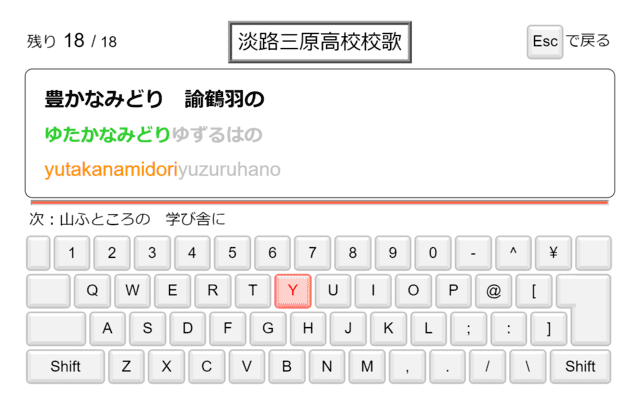
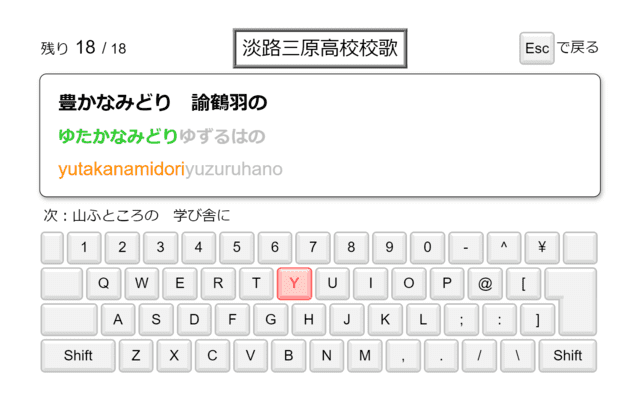
fix

Changed region(s): [[0.0297, 0.03, 0.9812, 0.96]]

diff --git a/css/typing.css b/css/typing.css
@@ -194,8 +194,8 @@
 		direction: rtl;
 		border-color: black;
 		color: white;
-		--shadow: 0 0 .15em black;
-		text-shadow: var(--shadow), var(--shadow), var(--shadow);
+		--text-shadow: 0 0 .15em black;
+		text-shadow: var(--text-shadow), var(--text-shadow), var(--text-shadow);
 	}
 }
 #rankList li::after {
@@ -237,16 +237,24 @@
 }
 #typingScreen {
 	position: relative;
+	padding-top: .2em;
+	box-sizing: border-box;
 }
 #typingScreen header {
 	display: flex;
 	align-items: center;
 	justify-content: space-between;
-	margin: 0 0 .5em;
+	margin-bottom: .5em;
 }
 #typingScreen header div {
 	width: 6.25em;
-	text-align: center;
+}
+#typingScreen header div:first-child {
+	padding-left: .1em;
+}
+#typingScreen header div:last-child {
+	text-align: right;
+	padding-right: .1em;
 }
 #remainingNum {
 	font-size: 1.3em;
@@ -271,8 +279,10 @@
 #remainingNum:invalid {
 	box-shadow: 0 0 .5em red;
 }
+#maxLines {
+	font-size: 1.05em;
+}
 #maxLines::before {
-	font-size: 1.1em;
 	padding: 0 .25em 0 .4em;
 	content: "/";
 }
@@ -289,13 +299,16 @@
 #sentencesFrame {
 	width: 100%;
 	padding: .75em 0 .75em 1.25em;
+	margin-bottom: .5em;
+	--frame-shadow: .1em .15em .3em #aaa;
+	box-shadow: var(--frame-shadow);
 }
 .frameOnTypo {
 	animation: mistyped .75s;
 }
 @keyframes mistyped {
-	from {box-shadow: 0 0 1.5em red inset;}
-	to {box-shadow: 0 0 0 red inset;}
+	from {box-shadow: var(--frame-shadow), 0 0 1.5em red inset;}
+	to   {box-shadow: var(--frame-shadow), 0 0 0 red inset;}
 }
 #sentencesFrame p {
 	margin: 0;
@@ -420,27 +433,27 @@
 	--key-height: 2.1em;
 	--border-width: .2em;
 	--key-gap: .2em;
-	--hue-saturation: 0,0%;
-	--max-lightness: 100%;
+	--hs: 0,0%;
+	--max-l: 100%;
 }
 #invisibleMode:not(:checked) ~ * .candidate {
-	--hue-saturation: 0,100%;
+	--hs: 0,100%;
 }
 #invisibleMode:not(:checked) ~ * .otherCandidates {
-	--hue-saturation: 210,100%;
+	--hs: 210,100%;
 }
 #invisibleMode:not(:checked) ~ * .candidate,
 #invisibleMode:not(:checked) ~ * .otherCandidates {
-	--max-lightness: 95%;
-	--color-lightness: 50%;
+	--max-l: 95%;
+	--text-l: 50%;
 }
 kbd {
-	--top-color:    hsl(var(--hue-saturation), var(--max-lightness));
-	--bg-color:     hsl(var(--hue-saturation), calc(var(--max-lightness) - 5%));
-	--lr-color:     hsl(var(--hue-saturation), calc(var(--max-lightness) - 10%));
-	--btm-color:    hsl(var(--hue-saturation), calc(var(--max-lightness) - 15%));
-	--shadow-color: hsl(var(--hue-saturation), calc(var(--max-lightness) - 25%));
-	color:          hsl(var(--hue-saturation), var(--color-lightness, 0%));
+	--top-color:  hsl(var(--hs), var(--max-l));
+	--bg-color:   hsl(var(--hs), calc(var(--max-l) - 5%));
+	--lr-color:   hsl(var(--hs), calc(var(--max-l) - 10%));
+	--btm-color:  hsl(var(--hs), calc(var(--max-l) - 15%));
+	--edge-color: hsl(var(--hs), calc(var(--max-l) - 25%));
+	color:        hsl(var(--hs), var(--text-l, 0%));
 	display: inline-block;
 	font: inherit;
 	box-sizing: border-box;
@@ -451,7 +464,7 @@ kbd {
 	margin: var(--key-gap);
 	border-radius: var(--border-width);
 	background-color: var(--bg-color);
-	box-shadow: 0 0 0 .1em var(--shadow-color);
+	box-shadow: 0 0 0 .1em var(--edge-color);
 	text-align: center;
 	vertical-align: middle;
 	cursor: pointer;
@@ -464,10 +477,10 @@ kbd.onType,
 kbd.onType::after,
 [data-pseudo-key]:focus,
 #shiftIsPressed:checked ~ * #Shift {
-	--top-color: hsl(var(--hue-saturation), calc(var(--max-lightness) - 28%));
-	--bg-color:  hsl(var(--hue-saturation), calc(var(--max-lightness) - 15%));
-	--lr-color:  hsl(var(--hue-saturation), calc(var(--max-lightness) - 20%));
-	--btm-color: hsl(var(--hue-saturation), calc(var(--max-lightness) - 10%));
+	--top-color: hsl(var(--hs), calc(var(--max-l) - 28%));
+	--bg-color:  hsl(var(--hs), calc(var(--max-l) - 15%));
+	--lr-color:  hsl(var(--hs), calc(var(--max-l) - 20%));
+	--btm-color: hsl(var(--hs), calc(var(--max-l) - 10%));
 	line-height: 1.8;
 }
 

diff --git a/js/typing.js b/js/typing.js
@@ -49,7 +49,7 @@ const Game = (() => {
 		if (!startTime) {
 			const isRmnFocused = rmn === document.activeElement;
 			if (key === "Tab")    return rmn[isRmnFocused? "blur": "focus"]();
-			if (isRmnFocused)     return doDefault;
+			if (isRmnFocused)     return key === "Escape"? rmn.blur(): doDefault;
 			if (key === "Escape") return exit();
 		}
 		if (!typedKbd)                 return doDefault;
@@ -113,17 +113,18 @@ const Game = (() => {
 		rmn.value    = +rmn.defaultValue + 1;
 		rmn.disabled = false;
 
+		$("#maxLines").textContent = rmn.max;
 		$("#sentencesFrame").classList.remove("frameOnTypo");
 		moveToNext();
 	},
 
 
 	start = () => {
-		Sounds.correct.playCount = Sounds.incorrect.playCount = 0;
 		if (!rmn.checkValidity()) rmn.value = rmn.placeholder;
-		rmn.defaultValue = rmn.value;
-		rmn.disabled     = true;
-		startTime        = new Date();
+		$("#maxLines").textContent = rmn.defaultValue = rmn.value;
+		Sounds.correct.playCount   = Sounds.incorrect.playCount = 0;
+		rmn.disabled = true;
+		startTime    = new Date();
 	},
 
 
@@ -168,7 +169,6 @@ const Game = (() => {
 		$("#rubyBase").textContent     = lines[0][0];
 		$("#nextSentence").textContent = rmn.value - 1? lines[1][+$("#englishMode").checked]: "";
 		$("#rubySentence").innerHTML   = `<span></span><span>${lines[0][1]}</span>`;
-		$("#meter").style.setProperty("--value", `${rmn.value / rmn.defaultValue * 100}%`);
 		recolor();
 	},
 

diff --git a/club/typing.html b/club/typing.html
@@ -36,7 +36,7 @@
 		<button data-tsv-name="countries_oceania" data-prev-rmn-value="16">オセアニアの国名</button>
 		<button data-tsv-name="countries_"             >世界の国名</button>
 		<button data-tsv-name="kanji_countries"  >国名の漢字</button>
-		<button data-tsv-name="kanji_sports"     data-prev-rmn-value="17">スポーツの漢字</button>
+		<button data-tsv-name="kanji_sports"     >スポーツの漢字</button>
 		<button data-tsv-name="kanji_animals"    data-caption="主に哺乳類の漢字です。">動物の漢字</button>
 		<button data-tsv-name="kanji_aquatics"   >魚介類の漢字</button>
 		<button data-tsv-name="kanji_birds"      >鳥の漢字</button>
@@ -178,7 +178,6 @@
 			<p id="rubySentence"><span></span><span></span></p>
 			<p id="romanized"><span></span><span></span></p>
 		</div>
-		<div id="meter"></div>
 		<p id="nextSentence"></p>
 		<div id="keyboard">
 			<kbd id="Hankaku" data-other-key="Zenkaku"></kbd><kbd data-on-shift="!">1</kbd><kbd data-on-shift='"'>2</kbd><kbd data-on-shift="#">3</kbd><kbd data-on-shift="$">4</kbd><kbd data-on-shift="%">5</kbd><kbd data-on-shift="&">6</kbd><kbd data-on-shift="'">7</kbd><kbd data-on-shift="(">8</kbd><kbd data-on-shift=")">9</kbd><kbd data-on-shift="" >0</kbd><kbd data-on-shift="=">-</kbd><kbd data-on-shift="~">^</kbd><kbd data-other-key="\" data-on-shift="|" data-code="IntlYen">￥</kbd><kbd id="Backspace"></kbd><br>

diff --git a/index.html b/index.html
@@ -29,11 +29,11 @@
 <section>
 	<h3>最近の更新</h3>
 	<dl class="listTable noBorder">
+		<div><dt><time datetime="2019-11-15">11/15</time><dd><a href="/club/quiz">クイズ</a>を更新しました。</div>
 		<div><dt><time datetime="2019-10-29">10/29</time><dd><a href="/school/shichi">志知高校</a>を更新しました。</div>
 		<div><dt><time datetime="2019-10-11">10/11</time><dd><a href="/school/layout">校舎の変遷</a>を更新しました。</div>
 		<div><dt><time datetime="2019-09-26">09/26</time><dd><a href="/school/tenmei">天明の縄騒動</a>を更新しました。</div>
 		<div><dt><time datetime="2019-09-15">09/15</time><dd><a href="/club/typing">タイピングゲーム</a>を更新しました。</div>
-		<div><dt><time datetime="2019-08-12">08/12</time><dd><a href="/school/clubs">部活動の変遷</a>を更新しました。</div>
 	</dl>
 </section>
 

diff --git a/school/references.html b/school/references.html
@@ -5,7 +5,7 @@
 <script src="/js/index.js" type="module"></script>
 
 <title>出典一覧｜淡路三原高校コンピュータ部</title>
-<style>dd time:nth-child(2)::before {right: 0;}</style>
+<style>@media (max-width:800px) {dd time:nth-child(2)::before {right: 0;}}</style>
 
 <header id="header">
 	<a href="/"><h1>淡路三原高校<br>コンピュータ部</h1></a>

diff --git a/css/slider.css b/css/slider.css
@@ -9,7 +9,7 @@
 	height: 100%; /* 画面のスクロールを防ぐ */
 }
 [name="slide"]:focus ~ #btns label {
-	outline: .1em solid dodgerblue;
+	outline: .06rem solid dodgerblue;
 }
 #slider a {
 	display: table;

diff --git a/css/common.css b/css/common.css
@@ -146,7 +146,7 @@ blockquote footer {
 	pointer-events: none;
 }
 .tabbable:focus + label {
-	outline: .1em solid dodgerblue;
+	outline: .06rem solid dodgerblue;
 }
 .enlargeable:hover * {
 	opacity: .5;
